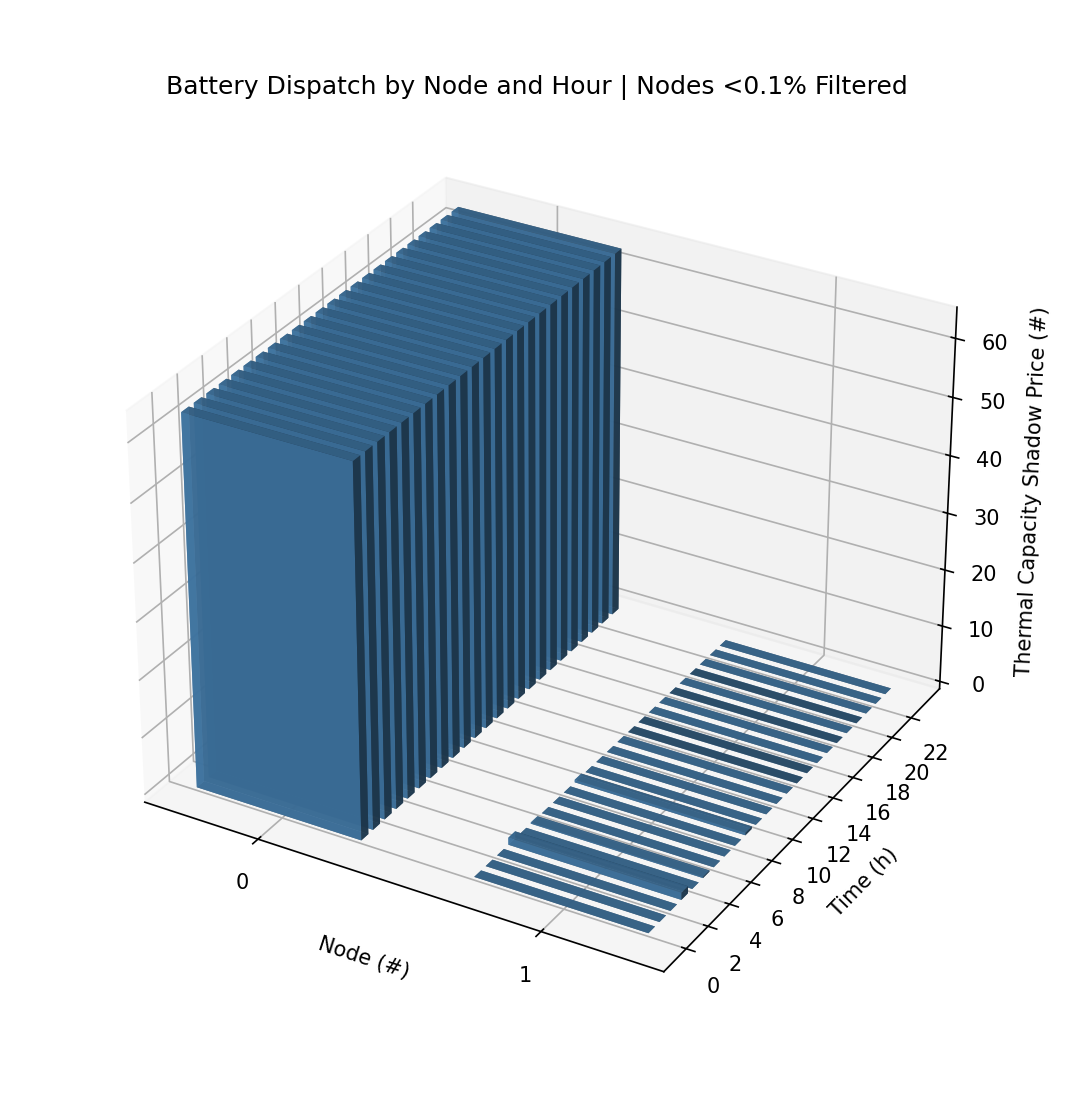
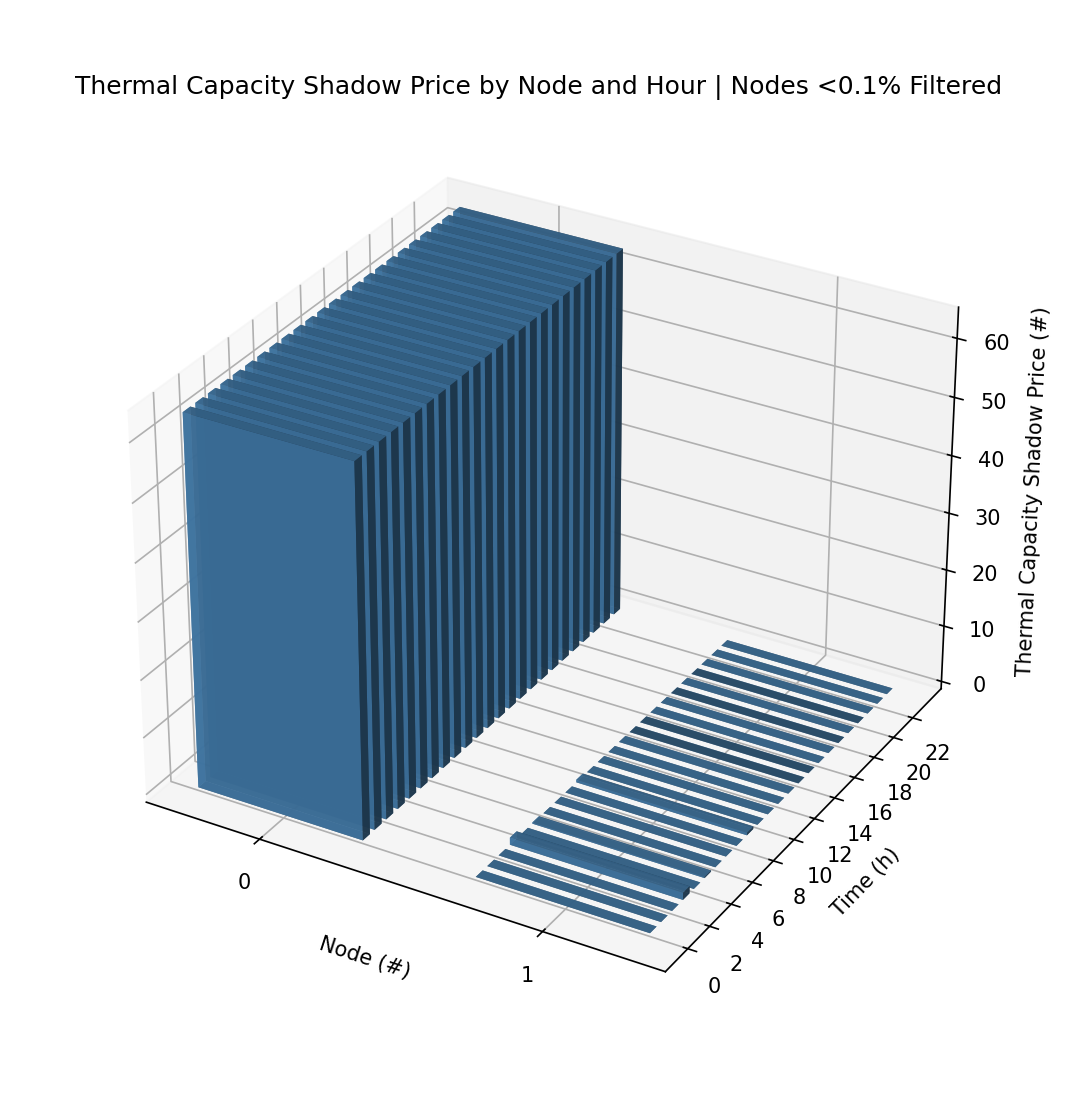
added more graphs

diff --git a/code/Result Visualization/result_functions.py b/code/Result Visualization/result_functions.py
@@ -235,7 +235,7 @@ def plot_transmission_congestion(results_dict, OUT_PATH, filter_small_nodes=Fals
     ax.set_ylabel('Time (h)')
     zlabel = 'Thermal Capacity Shadow Price (#)'
     ax.set_zlabel(zlabel)
-    title_parts = ['Battery Dispatch by Node and Hour']
+    title_parts = ['Thermal Capacity Shadow Price by Node and Hour']
     if filter_small_nodes:
         title_parts.append('Nodes <0.1% Filtered')
     ax.set_title(' | '.join(title_parts))
@@ -251,6 +251,84 @@ def plot_transmission_congestion(results_dict, OUT_PATH, filter_small_nodes=Fals
 
     suffix = ('_filtered' if filter_small_nodes else '')
     plt.savefig(OUT_PATH / f'battery_thermal_duals_cap{total_cap:.0f}MWh{suffix}.png', dpi=150, bbox_inches='tight', pad_inches=0.5)
+    # plt.show()
+    plt.close()
+    return
+
+
+def plot_generic_value(results_dict, OUT_PATH,variable_key,dict_key='variables', filter_small_nodes=False):
+    """3D bar chart of line congestion by node (x) and hour (y), value on z-axis.
+    Assumes results[dict_key][variable_key] is a list of n_nodes lists,
+    each of length n_hours, indexed as [node][hour].
+
+    Args:
+        results_dict: single results dict for the scenario to visualise.
+        normalize: if True, each bar shows dispatch as % of that node's capacity.
+        filter_small_nodes: if True, omit nodes whose capacity is <0.1% of total.
+    """
+    node_caps = np.array(results_dict['variables']['e^{batt}_{j,max}'])
+    total_cap = float(node_caps.sum())
+    vals = results_dict[dict_key][variable_key]
+    val_array = np.array(vals, dtype=float)  # shape: (n_nodes, n_hours)
+    n_nodes, n_hours = val_array.shape
+
+    # Determine which nodes to keep
+    if filter_small_nodes:
+        kept_nodes = [j for j in range(n_nodes) if max(val_array[j]) >= 1e-3]
+    else:
+        kept_nodes = list(range(n_nodes))
+
+    val_array = val_array[kept_nodes, :]
+
+    max_val = np.abs(val_array).max()
+    if max_val > 0:
+        val_array[np.abs(val_array) < 0.001] = 0.0
+
+    n_kept = len(kept_nodes)
+    x_positions = np.arange(n_kept, dtype=float)
+    node_idx, hour_idx = np.meshgrid(x_positions, np.arange(n_hours), indexing='ij')
+    node_flat = node_idx.ravel()
+    hour_flat = hour_idx.ravel()
+    values_flat = val_array.ravel()
+
+    dx = 0.6
+    dy = 0.6
+    dz = np.abs(values_flat)
+    z_bottoms = np.where(values_flat >= 0, 0.0, values_flat)
+    colors = ['steelblue' if v >= 0 else 'tomato' for v in values_flat]
+
+    fig = plt.figure(figsize=(14, 8))
+    ax = fig.add_subplot(111, projection='3d')
+    ax.bar3d(
+        node_flat - dx / 2,
+        hour_flat - dy / 2,
+        z_bottoms,
+        dx, dy, dz,
+        color=colors,
+        alpha=0.85,
+        zsort='average',
+    )
+
+    ax.set_xlabel('Node (#)')
+    ax.set_ylabel('Time (h)')
+    zlabel = variable_key
+    ax.set_zlabel(zlabel)
+    title_parts = [variable_key + ' by Node and Hour']
+    if filter_small_nodes:
+        title_parts.append('Nodes <0.1% Filtered')
+    ax.set_title(' | '.join(title_parts))
+    ax.set_xticks(x_positions)
+    ax.set_xticklabels([str(j) for j in kept_nodes])
+    ax.set_yticks(range(0, n_hours, max(1, n_hours // 12)))
+
+    # legend_elements = [
+    #     Patch(facecolor='steelblue', label='Discharging (+)'),
+    #     Patch(facecolor='tomato', label='Charging (−)'),
+    # ]
+    # ax.legend(handles=legend_elements, loc='upper left')
+
+    suffix = ('_filtered' if filter_small_nodes else '')
+    plt.savefig(OUT_PATH / f'{variable_key}_{total_cap:.0f}MWh{suffix}.png', dpi=150, bbox_inches='tight', pad_inches=0.5)
     # plt.show()
     plt.close()
     return
@@ -302,14 +380,14 @@ def main(date_string):
     results_list = []
     for file in json_files:
         results_dict = get_results_dict(file)
-        plot_battery_dispatch_3d(results_dict,OUT_PATH,normalize=False,filter_small_nodes=False)
+        # plot_battery_dispatch_3d(results_dict,OUT_PATH,normalize=False,filter_small_nodes=False)
         plot_transmission_congestion(results_dict,OUT_PATH,filter_small_nodes=True)
-        results_list.append(results_dict)
-    interestNode = 9
-    plot_node_dispatch_by_capacity(results_list, interestNode, OUT_PATH)
+    #     results_list.append(results_dict)
+    # interestNode = 9
+    # plot_node_dispatch_by_capacity(results_list, interestNode, OUT_PATH)
     
-    plot_objective_vs_capacity(results_list,OUT_PATH)
-    plot_capacity_allocation(results_list,OUT_PATH)
+    # plot_objective_vs_capacity(results_list,OUT_PATH)
+    # plot_capacity_allocation(results_list,OUT_PATH)
     return
 
 def find_files_by_date(date_str):
